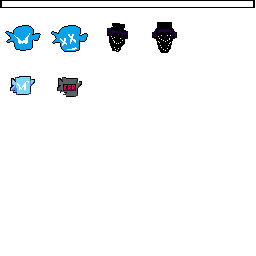
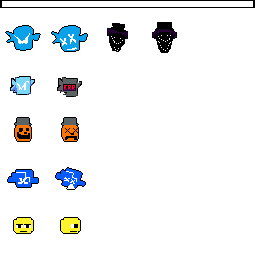
showtime stuff in the right spots now

diff --git a/src/stage/takecake.c b/src/stage/takecake.c
@@ -93,10 +93,10 @@ void Back_TakeCake_DrawBG(StageBack *back)
 	
 	Animatable_Animate(&this->kid_animatable, (void*)this, TakeCake_Kid_SetFrame);
 	
-	TakeCake_Kid_Draw(this, FIXED_DEC(163 + 71,1) - fx, FIXED_DEC(32 + 98,1) - fy);
-	TakeCake_Kid_Draw(this, FIXED_DEC(0 + 71,1) - fx, FIXED_DEC(0 + 98,1) - fy);
-	TakeCake_Kid_Draw(this, FIXED_DEC(0 + 71,1) - fx, FIXED_DEC(0 + 98,1) - fy);
-	TakeCake_Kid_Draw(this, FIXED_DEC(0 + 71,1) - fx, FIXED_DEC(0 + 98,1) - fy);
+	TakeCake_Kid_Draw(this, FIXED_DEC(161 + 71,1) - fx, FIXED_DEC(31 + 98,1) - fy);
+	TakeCake_Kid_Draw(this, FIXED_DEC(207 + 71,1) - fx, FIXED_DEC(71 + 98,1) - fy);
+	TakeCake_Kid_Draw(this, FIXED_DEC(-126 + 71,1) - fx, FIXED_DEC(31 + 98,1) - fy);
+	TakeCake_Kid_Draw(this, FIXED_DEC(-168 + 71,1) - fx, FIXED_DEC(71 + 98,1) - fy);
 	
 	//Draw takecakebg
 	fx = stage.camera.x;
@@ -106,12 +106,16 @@ void Back_TakeCake_DrawBG(StageBack *back)
 	RECT_FIXED takecakebg_dst = {
 		FIXED_DEC(-212 - screen.SCREEN_WIDEOADD2,1) - fx,
 		FIXED_DEC(-164,1) - fy,
-		FIXED_DEC(668 + screen.SCREEN_WIDEOADD,1),
-		FIXED_DEC(387,1)
+		FIXED_DEC(559 + screen.SCREEN_WIDEOADD,1),
+		FIXED_DEC(324,1)
 	};
 
 	Debug_StageMoveDebug(&takecakebg_dst, 6, fx, fy);
 	Stage_DrawTex(&this->tex_back0, &takecakebg_src, &takecakebg_dst, stage.camera.bzoom);
+	
+	//Draw blackf
+	RECT screen_src = {0, 0, screen.SCREEN_WIDTH, screen.SCREEN_HEIGHT};
+	Gfx_DrawRect(&screen_src, 0, 0, 0);
 }
 
 void Back_TakeCake_Free(StageBack *back)

diff --git a/src/stagedef_disc1.h b/src/stagedef_disc1.h
@@ -298,15 +298,15 @@
 	
 	{ //StageId_5_1 (Showtime)
 		//Characters
-		{Char_BF_New,    FIXED_DEC(155,1),  FIXED_DEC(165,1)},
+		{Char_BF_New,    FIXED_DEC(160,1),  FIXED_DEC(121,1)},
 		{NULL},
 		{NULL},
 		{NULL},
 		{NULL},
-		{Char_Cakebear_New, FIXED_DEC(-11,1),  FIXED_DEC(241,1)},
+		{Char_Cakebear_New, FIXED_DEC(-48,1),  FIXED_DEC(203,1)},
 		{NULL},
         {NULL},
-		{Char_GFO_New,     FIXED_DEC(122,1),  FIXED_DEC(113,1)},
+		{Char_GFO_New,     FIXED_DEC(86,1),  FIXED_DEC(70,1)},
 		
 		//Stage background
 		Back_TakeCake_New,

diff --git a/src/character/cakebear.c b/src/character/cakebear.c
@@ -140,11 +140,11 @@ Character *Char_Cakebear_New(fixed_t x, fixed_t y)
 	this->character.health_i = 2;
 
 	//health bar color
-	this->character.health_bar = 0xFFC39B06;
+	this->character.health_bar = 0xFFF77601;
 	
 	this->character.focus_x = FIXED_DEC(47,1);
 	this->character.focus_y = FIXED_DEC(-139,1);
-	this->character.focus_zoom = FIXED_DEC(1,1);
+	this->character.focus_zoom = FIXED_DEC(241,256);
 	
 	this->character.size = FIXED_DEC(1,1);
 	

diff --git a/src/character/bf.c b/src/character/bf.c
@@ -500,7 +500,7 @@ Character *Char_BF_New(fixed_t x, fixed_t y)
 	{	
 		this->character.focus_x = FIXED_DEC(-50,1);
 		this->character.focus_y = FIXED_DEC(-65,1);
-		this->character.focus_zoom = FIXED_DEC(1,1);
+		this->character.focus_zoom = FIXED_DEC(241,256);
 	}
 	else
 	{	
